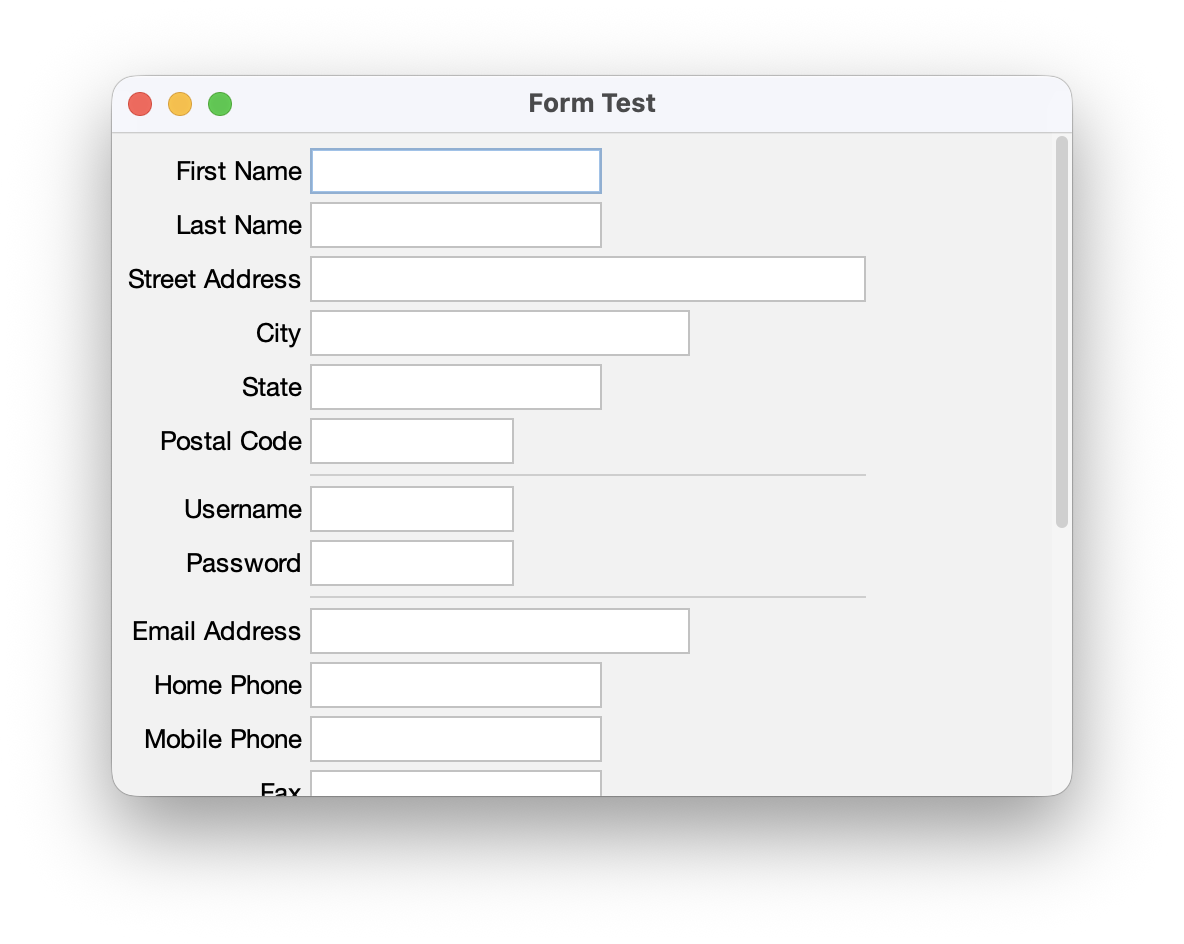
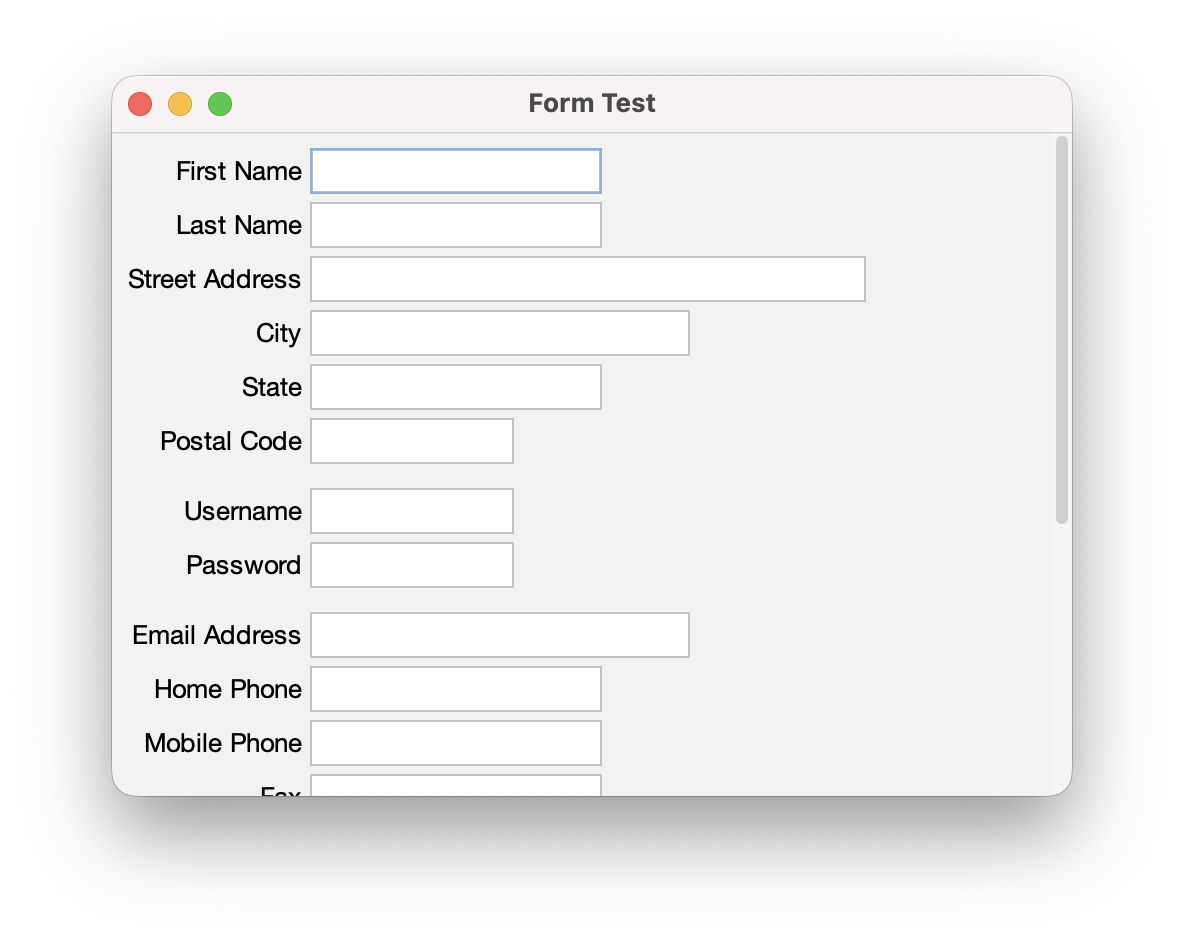
Update FormPanel.

diff --git a/sierra/src/main/java/org/httprpc/sierra/FormPanel.java b/sierra/src/main/java/org/httprpc/sierra/FormPanel.java
@@ -101,10 +101,6 @@ public class FormPanel extends GridPanel {
                 var labelSize = label.getSize();
                 var fieldSize = field.getSize();
 
-                if (fieldSize.width == 0) {
-                    field.setSize(maximumFieldWidth, fieldSize.height);
-                }
-
                 var labelBaseline = label.getBaseline(labelSize.width, labelSize.height);
                 var fieldBaseline = field.getBaseline(fieldSize.width, fieldSize.height);
 
